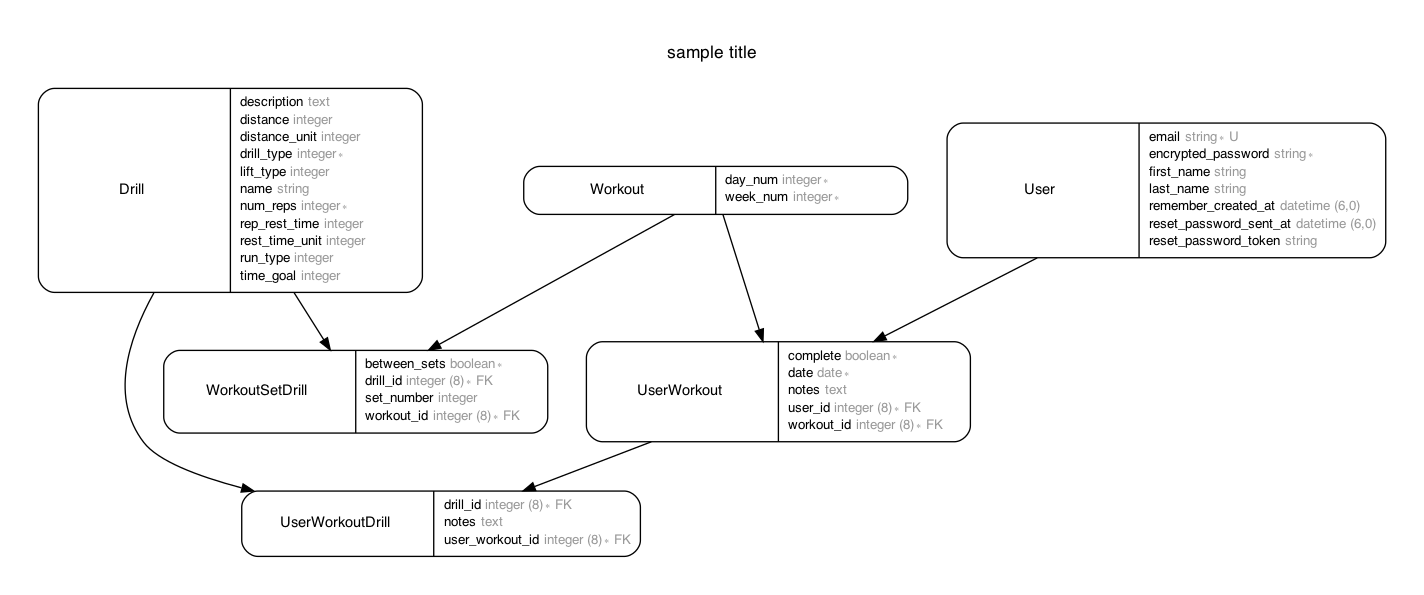
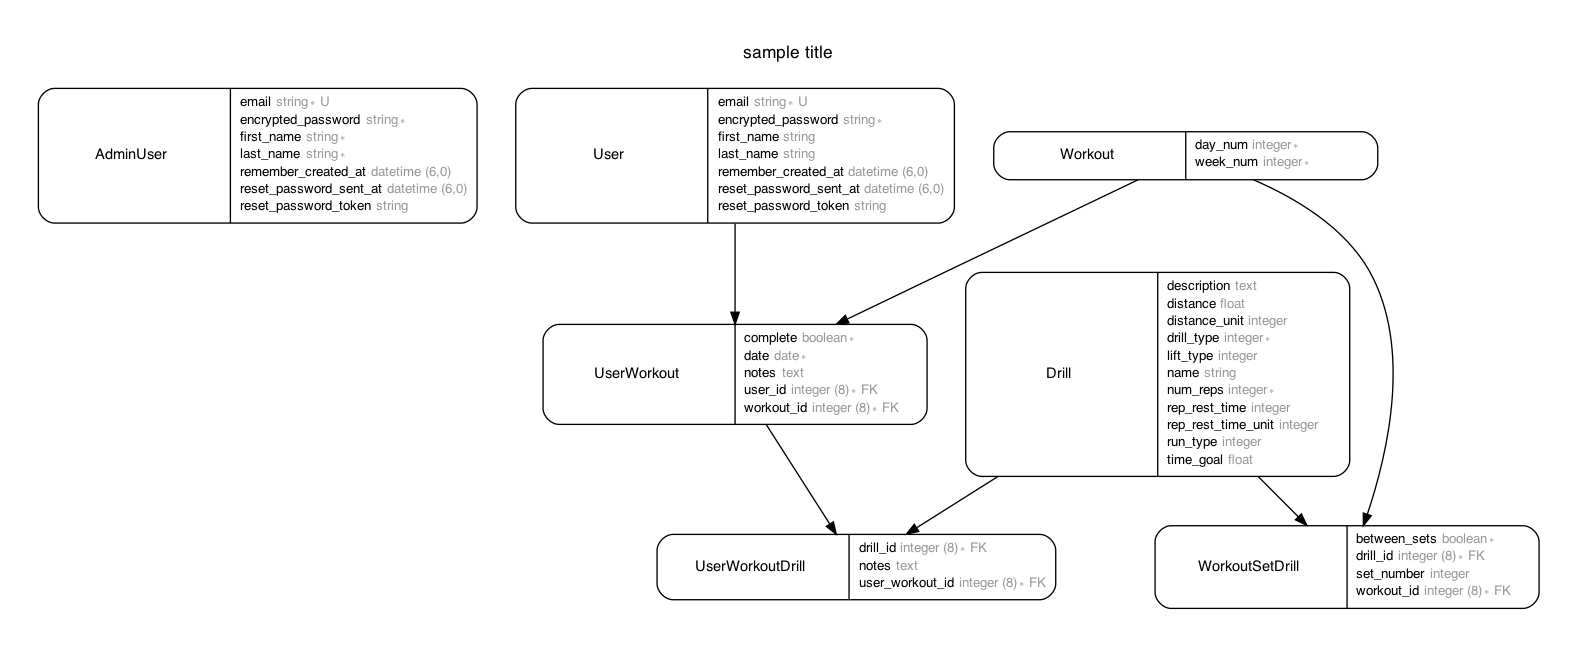
avo admin, update db, update seeds

diff --git a/db/schema.rb b/db/schema.rb
@@ -10,10 +10,24 @@
 #
 # It's strongly recommended that you check this file into your version control system.
 
-ActiveRecord::Schema.define(version: 2021_12_30_005132) do
+ActiveRecord::Schema.define(version: 2021_12_30_010836) do
 
   # These are extensions that must be enabled in order to support this database
   enable_extension "plpgsql"
+
+  create_table "admin_users", force: :cascade do |t|
+    t.string "first_name", null: false
+    t.string "last_name", null: false
+    t.string "email", null: false
+    t.string "encrypted_password", null: false
+    t.string "reset_password_token"
+    t.datetime "reset_password_sent_at", precision: 6
+    t.datetime "remember_created_at", precision: 6
+    t.datetime "created_at", precision: 6, null: false
+    t.datetime "updated_at", precision: 6, null: false
+    t.index ["email"], name: "index_admin_users_on_email", unique: true
+    t.index ["reset_password_token"], name: "index_admin_users_on_reset_password_token", unique: true
+  end
 
   create_table "drills", force: :cascade do |t|
     t.string "name"
@@ -21,11 +35,11 @@ ActiveRecord::Schema.define(version: 2021_12_30_005132) do
     t.integer "num_reps", null: false
     t.integer "run_type"
     t.integer "lift_type"
-    t.integer "distance"
+    t.float "distance"
     t.integer "distance_unit"
     t.integer "rep_rest_time"
-    t.integer "rest_time_unit", default: 0
-    t.integer "time_goal"
+    t.integer "rep_rest_time_unit", default: 0
+    t.float "time_goal"
     t.text "description"
     t.datetime "created_at", precision: 6, null: false
     t.datetime "updated_at", precision: 6, null: false

diff --git a/config/initializers/avo.rb b/config/initializers/avo.rb
@@ -1,0 +1,59 @@
+Avo.configure do |config|
+  ## == Routing ==
+  config.root_path = '/avo'
+
+  ## == Licensing ==
+  config.license = 'community'
+  # config.license_key = ENV['AVO_LICENSE_KEY']
+
+  ## == Set the context ==
+  config.set_context do
+    # Return a context object that gets evaluated in Avo::ApplicationController
+  end
+
+  ## == Authentication ==
+  config.current_user_method = :current_admin_user
+  # config.authenticate_with do
+  #   warden.authenticate! scope: :user
+  # end
+
+  ## == Authorization ==
+  # config.authorization_methods = {
+  #   index: 'index?',
+  #   show: 'show?',
+  #   edit: 'edit?',
+  #   new: 'new?',
+  #   update: 'update?',
+  #   create: 'create?',
+  #   destroy: 'destroy?',
+  # }
+
+  ## == Localization ==
+  # config.locale = 'en-US'
+
+  ## == Customization ==
+  # config.app_name = 'Avocadelicious'
+  # config.timezone = 'UTC'
+  # config.currency = 'USD'
+  # config.per_page = 24
+  # config.per_page_steps = [12, 24, 48, 72]
+  # config.via_per_page = 8
+  # config.default_view_type = :table
+  # config.id_links_to_resource = false
+  # config.full_width_container = false
+  # config.full_width_index_view = false
+  # config.cache_resources_on_index_view = true
+  # config.search_debounce = 300
+  # config.view_component_path = "app/components"
+  # config.display_license_request_timeout_error = true
+
+
+  # Where should the user be redirected when he hits the `/avo` url
+  # config.home_path = nil
+
+  ## == Breadcrumbs ==
+  # config.display_breadcrumbs = true
+  # config.set_initial_breadcrumbs do
+  #   add_breadcrumb "Home", '/avo'
+  # end
+end

diff --git a/db/migrate/20211230010836_devise_create_admin_users.rb b/db/migrate/20211230010836_devise_create_admin_users.rb
@@ -1,0 +1,46 @@
+# frozen_string_literal: true
+
+class DeviseCreateAdminUsers < ActiveRecord::Migration[7.0]
+  def change
+    create_table :admin_users do |t|
+      t.string :first_name, null: false
+      t.string :last_name, null: false
+      ## Database authenticatable
+      t.string :email,              null: false
+      t.string :encrypted_password, null: false
+
+      ## Recoverable
+      t.string   :reset_password_token
+      t.datetime :reset_password_sent_at
+
+      ## Rememberable
+      t.datetime :remember_created_at
+
+      ## Trackable
+      # t.integer  :sign_in_count, default: 0, null: false
+      # t.datetime :current_sign_in_at
+      # t.datetime :last_sign_in_at
+      # t.string   :current_sign_in_ip
+      # t.string   :last_sign_in_ip
+
+      ## Confirmable
+      # t.string   :confirmation_token
+      # t.datetime :confirmed_at
+      # t.datetime :confirmation_sent_at
+      # t.string   :unconfirmed_email # Only if using reconfirmable
+
+      ## Lockable
+      # t.integer  :failed_attempts, default: 0, null: false # Only if lock strategy is :failed_attempts
+      # t.string   :unlock_token # Only if unlock strategy is :email or :both
+      # t.datetime :locked_at
+
+
+      t.timestamps null: false
+    end
+
+    add_index :admin_users, :email,                unique: true
+    add_index :admin_users, :reset_password_token, unique: true
+    # add_index :admin_users, :confirmation_token,   unique: true
+    # add_index :admin_users, :unlock_token,         unique: true
+  end
+end

diff --git a/lib/seeds/user_seeder.rb b/lib/seeds/user_seeder.rb
@@ -1,11 +1,12 @@
 module Seeds
   class UserSeeder < Seeder
     NUM_USERS = 3
-    EMAIL_USERNAME = ENV['EMAIL_USERNAME']
-    EMAIL_HOST = ENV['EMAIL_HOST']
+    EMAIL_USERNAME = Rails.application.credentials.email_username
+    EMAIL_HOST = Rails.application.credentials.email_host
+    PASSWORD = Rails.application.credentials.default_password
 
     def seed_db
-      # create_admin_user
+      create_admin_user unless AdminUser.count > 0
       create_users
     end
 
@@ -19,18 +20,18 @@ module Seeds
 
     def models_seeded
       [
+        AdminUser,
         User,
       ]
     end
 
-    # def create_admin_user
-    #   AdminUser.create!(FactoryBot.attributes_for(:admin_user, email: "#{EMAIL_USERNAME}+admin@#{EMAIL_HOST}"))
-    # end
+    def create_admin_user
+      AdminUser.create!(FactoryBot.attributes_for(:admin_user, email: "#{EMAIL_USERNAME}+admin@#{EMAIL_HOST}", password: PASSWORD))
+    end
 
     def create_users
-      users_array = Array.new(NUM_USERS) do |_n|
-        # FactoryBot.attributes_for(:user, email: "#{EMAIL_USERNAME}+n@#{EMAIL_HOST}")
-        FactoryBot.attributes_for(:user)
+      users_array = Array.new(NUM_USERS) do |n|
+        FactoryBot.attributes_for(:user, email: "#{EMAIL_USERNAME}+#{n}@#{EMAIL_HOST}", password: PASSWORD)
       end
       User.create!(users_array)
     end

diff --git a/spec/factories/drills.rb b/spec/factories/drills.rb
@@ -37,7 +37,7 @@ FactoryBot.define do
       distance { 60 }
       distance_unit { :yards }
       rep_rest_time { 20 }
-      rest_time_unit { :seconds }
+      rep_rest_time_unit { :seconds }
       description { '60 yard sprints with 20 seconds rest in between each' }
     end
 
@@ -49,7 +49,7 @@ FactoryBot.define do
       distance { 300 }
       distance_unit { :yards }
       rep_rest_time { 2 }
-      rest_time_unit { :minutes }
+      rep_rest_time_unit { :minutes }
       description { '300’s with 2 minute rest in between each (25 yards up and back 6 times)' }
     end
 
@@ -61,7 +61,7 @@ FactoryBot.define do
       distance { 0.5 }
       distance_unit { :miles }
       rep_rest_time { 3 }
-      rest_time_unit { :minutes }
+      rep_rest_time_unit { :minutes }
       time_goal { 3.5 }
       description { '½ miles in 3:30 with 3 min rest in between each' }
     end

diff --git a/lib/seeds/workout_seeder.rb b/lib/seeds/workout_seeder.rb
@@ -40,16 +40,18 @@ module Seeds
     end
 
     def create_conditioning_drills
-      cs_drills = Drill.run_types.keys.flat_map do |run_type|
-        Array.new(NUM_WEEKS) { FactoryBot.attributes_for(:drill, run_type) }
+      cs_drills = Drill.run_types.keys.map do |run_type|
+        FactoryBot.attributes_for(:drill, run_type)
       end
       Drill.create!(cs_drills)
     end
 
     # will want to be more clever about this
     def create_sets
-      sets = workouts.map.with_index do |workout, index|
-        { drill_id: drills[index].id, workout_id: workout.id, set_number: 1 }
+      sets = WEEKDAYS.flat_map.each_with_index do |weekday, index|
+        workouts.send(weekday).map do |workout|
+          { drill_id: drills[index].id, workout_id: workout.id, set_number: 1 }
+        end
       end
       WorkoutSetDrill.create!(sets)
     end

diff --git a/app/avo/resources/drill_resource.rb b/app/avo/resources/drill_resource.rb
@@ -1,0 +1,19 @@
+class DrillResource < Avo::BaseResource
+  self.title = :name
+  # self.search_query = ->(params:) do
+  #   scope.ransack(id_eq: params[:q], m: "or").result(distinct: false)
+  # end
+
+  # field :id, as: :id
+  field :name, as: :text
+  field :drill_type, as: :text, format_using: -> (value) { value&.titleize }, sortable: true, required: true, placeholder: ''
+  field :num_reps, as: :text
+  field :run_type, as: :text, format_using: -> (value) { value&.titleize }, sortable: true, placeholder: ''
+  field :lift_type, as: :text, format_using: -> (value) { value&.titleize }, sortable: true, placeholder: ''
+  field :distance, as: :text
+  field :distance_unit, as: :text
+  field :rep_rest_time, as: :text
+  field :rep_rest_time_unit, as: :text
+  field :time_goal, as: :number
+  field :description, as: :textarea, rows: 3
+end

diff --git a/app/models/admin_user.rb b/app/models/admin_user.rb
@@ -1,13 +1,10 @@
-class User < ApplicationRecord
+class AdminUser < ApplicationRecord
   include NameConcerns
   # Include default devise modules. Others available are:
   # :confirmable, :lockable, :timeoutable, :trackable and :omniauthable
   devise :database_authenticatable, :registerable,
          :recoverable, :rememberable, :validatable
 
-  has_many :user_workouts
-  has_many :workouts, through: :user_workouts
-
-  validates_presence_of :email
+  validates_presence_of :first_name, :last_name, :email
   validates_uniqueness_of :email
 end

diff --git a/app/avo/resources/admin_user_resource.rb b/app/avo/resources/admin_user_resource.rb
@@ -1,0 +1,12 @@
+class AdminUserResource < Avo::BaseResource
+  self.title = :full_name
+  self.devise_password_optional = true
+  # self.search_query = ->(params:) do
+  #   scope.ransack(id_eq: params[:q], m: "or").result(distinct: false)
+  # end
+
+  field :id, as: :id
+  field :first_name, as: :text, sortable: true, required: true, placeholder: ''
+  field :last_name, as: :text, sortable: true, required: true, placeholder: ''
+  field :email, as: :text, sortable: true, required: true, placeholder: ''
+end

diff --git a/app/avo/resources/user_resource.rb b/app/avo/resources/user_resource.rb
@@ -1,0 +1,12 @@
+class UserResource < Avo::BaseResource
+  self.title = :full_name
+  self.devise_password_optional = true
+  # self.search_query = ->(params:) do
+  #   scope.ransack(id_eq: params[:q], m: "or").result(distinct: false)
+  # end
+
+  # field :id, as: :id
+  field :first_name, as: :text, sortable: true, required: true, placeholder: ''
+  field :last_name, as: :text, sortable: true, required: true, placeholder: ''
+  field :email, as: :text, sortable: true, required: true, placeholder: ''
+end

diff --git a/db/migrate/20211229200006_create_drills.rb b/db/migrate/20211229200006_create_drills.rb
@@ -6,11 +6,11 @@ class CreateDrills < ActiveRecord::Migration[7.0]
       t.integer :num_reps, null: false
       t.integer :run_type
       t.integer :lift_type
-      t.integer :distance
+      t.float :distance
       t.integer :distance_unit
       t.integer :rep_rest_time
-      t.integer :rest_time_unit, default: 0
-      t.integer :time_goal
+      t.integer :rep_rest_time_unit, default: 0
+      t.float :time_goal
       t.text :description
 
       t.timestamps

diff --git a/app/avo/resources/workout_resource.rb b/app/avo/resources/workout_resource.rb
@@ -1,0 +1,10 @@
+class WorkoutResource < Avo::BaseResource
+  self.title = :title
+  # self.search_query = ->(params:) do
+  #   scope.ransack(id_eq: params[:q], m: "or").result(distinct: false)
+  # end
+
+  # field :id, as: :id
+  field :week_num, as: :number, name: 'Week', sortable: true, required: true, placeholder: ''
+  field :day_num, as: :text, format_using: -> (value) { value&.titleize }, name: 'Day', sortable: true, required: true, placeholder: ''
+end
